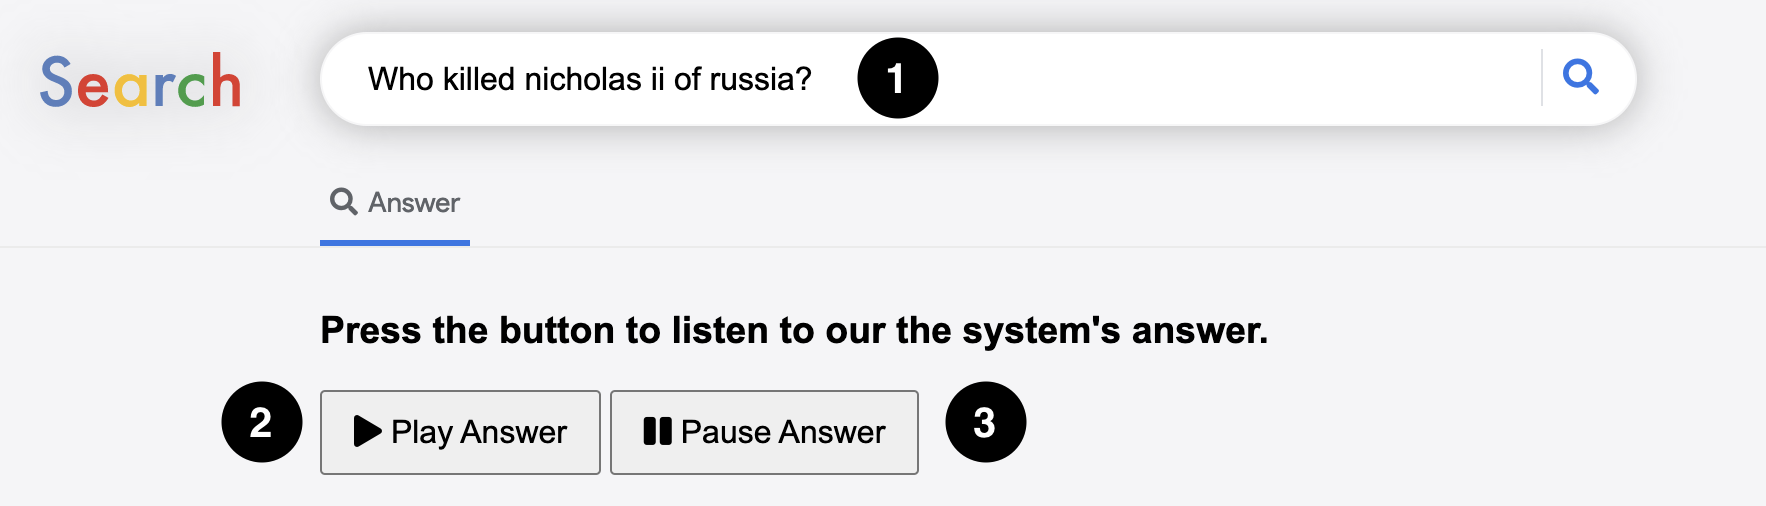
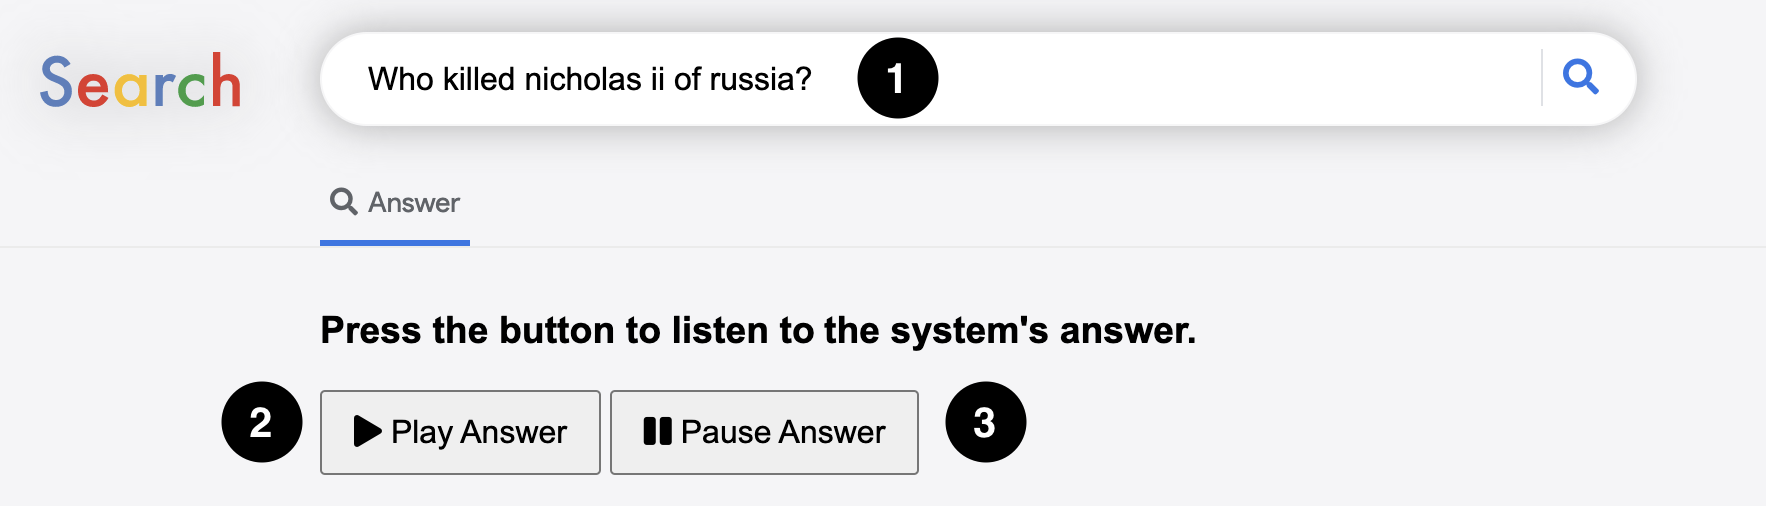
Voice updates

Changed region(s): [[0.4672, 0.6225, 0.7163, 0.6818]]

diff --git a/standard/landing.html b/standard/landing.html
@@ -8,8 +8,7 @@
         <link rel="stylesheet" href="css/googlesans.css" />
         <link rel="stylesheet" href="css/layout.css" />
         <link rel="stylesheet" href="css/components.css" />
-        <!-- <link rel="stylesheet" href="css/grid.css" /> -->
-        <!-- <link rel="stylesheet" href="css/landing.css" /> -->
+        <link rel="stylesheet" href="css/landing.css" />
         <title>Search Experiment</title>
     </head>
 
@@ -42,14 +41,14 @@
                 <div class="grid-container">
                         <div>
                                 <h2 class="check-list">Welcome to the study!</h2>
-                                <ul>
+                                <ul class="check-list-items">
                                     <li>In this study, we will provide you with pages that look like this. At the top you see a query (marked 1) and below it the audio clip of the passage retrieved for that query by a search system.
                                         <img style="width: 600px; height: 180px; margin-top: 10px; display: block" src="img/voice.png"></img>
                                     </li>
-                                    <li>You will see 29 such pages in total.</li>
+                                    <li>You will see <b>29 such pages</b> in total.</li>
                                     <li>For this study, you won't be able to change the query.</li>
                                     <li>You can play the audio by pressing the play button (marked 2). You can also pause the audio by pressing the pause button (marked 3).</li>                                
-                                    <li>For each page, we ask you to judge whether the audio clip passage is actually relevant to the query. You can select between 3 judgments: <i>relevant</i>, <i>somewhat relevant</i> and <i>not relevant</i>.</li> 
+                                    <li>For each page, we ask you to judge whether the audio clip passage is actually relevant to the query. You can select between 3 judgements: <i>relevant</i>, <i>somewhat relevant</i> and <i>not relevant</i>.</li> 
                                     <li>You can also choose <i>I do not know</i> if you are unsure about the relevance of the passage.</li>
                                     <li>The form to judge relevance will be shown once atleast half of the audio is played. However, we <b>strongly</b> encourage you to listen to the whole audio for this study.</li>                                  
                                     <li>Once you are <b>satisfied</b> with your assessment click the <strong>Next query</strong> button to go to the next page.</li>                                                                        
@@ -57,7 +56,7 @@
                                     <li><b> We request you to only use the passage we provide to assess the relevance. Please do not issue queries in a separate search engine.</b></li>
                                     <li><b>Please avoid the use of your browser's back button as you go through this experiment.</b></li>
                                     <li >When ready, click on the Start button to start the study!
-                                        <button type="button" id="myButton" style="display: block; margin: 10px; width: 100px;">
+                                        <button type="button" id="myButton" class="start-button">
                                                 Start
                                         </button>
                                     </li>

diff --git a/standard/template.html b/standard/template.html
@@ -51,7 +51,7 @@
                         <div class="answer-card">
                                 <div class="flex-container">
                                     <div class="left-container"> 
-                                        <h3>Press the button to listen to our the system's answer.</h3>   
+                                        <h3>Press the button to listen to the system's answer.</h3>   
                                         <span class="answer">
                                                 
                                                 <audio  id="audio1">
@@ -81,21 +81,21 @@
                                     <span> To what extent was the answer <b>relevant</b> to the query? </span>
                                     <div style="margin-top: 10px;">
                                         <input type="radio" id="0" name="rel" value="0">
-                                        <label>Relevant</label>
+                                        <label for="0">Relevant</label>
                                     </div>
                                       
                                     <div>
                                         <input type="radio" id="1" name="rel" value="1">
-                                        <label>Somewhat relevant</label>
+                                        <label for="1">Somewhat relevant</label>
                                     </div>
                                 
                                     <div>
                                         <input type="radio" id="2" name="rel" value="2">
-                                        <label>Not relevant</label>
+                                        <label for="2">Not relevant</label>
                                     </div>
                                     <div>
                                         <input type="radio" id="3" name="rel" value="3">
-                                        <label>I do not know</label>
+                                        <label for="3">I do not know</label>
                                     </div>
                                 </div>
     
@@ -116,7 +116,7 @@
                     </ul>
             </div> -->
             <div style="position: absolute; margin-top: 30px">
-                <button type="button" id="myButton" disabled>
+                <button type="button" class="next-button" id="myButton" disabled>
                         Next Query
                 </button>
             </div>

diff --git a/standard/css/landing.css b/standard/css/landing.css
@@ -1,0 +1,15 @@
+ul.check-list-items {
+    line-height: 23px;
+}
+
+ul.check-list-items li {
+    margin-bottom: 5px;
+}
+
+button.start-button {
+    display: block;
+    margin: 20px 0 0 0;
+    padding: 10px;
+    font-size: 24px;
+    font-weight: bold;
+}

diff --git a/standard/css/components.css b/standard/css/components.css
@@ -161,3 +161,11 @@ div.answer-card > ul.also {
 button.playButton, button.pauseButton {
     padding: 10px 15px 10px 15px;
 }
+
+button.next-button {
+    display: block;
+    margin: 0;
+    padding: 10px;
+    font-size: 18px;
+    font-weight: bold;
+}
